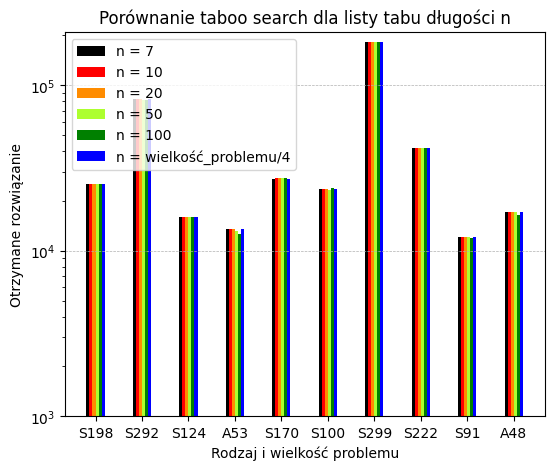
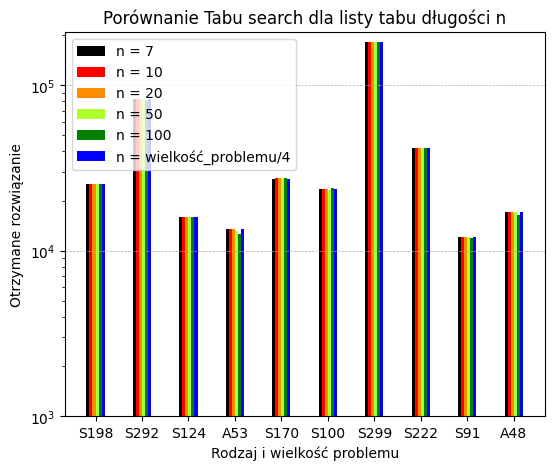
Plots

Changed region(s): [[0.1841, 0.0, 0.9206, 0.0596]]

diff --git a/src/main/java/org/example/Main.java b/src/main/java/org/example/Main.java
@@ -1,6 +1,10 @@
 package org.example;
 
+import org.example.algorithm.TwoOpt;
+import org.example.data.EucTspData;
+import org.example.data.Result;
 import org.example.data.TspData;
+import org.example.drawer.Drawer;
 import org.example.tabooSearchAnalyses.AlgorithmsComparisonTS;
 
 import java.io.File;
@@ -44,7 +48,7 @@ public class Main {
 //        System.out.println("At the beginning: " + startingRes.calcObjectiveFunction());
 //        System.out.println("At the end: " + endRes.calcObjectiveFunction());
 
-        FileLoader fileLoader = new FileLoader(files[0]);
+        FileLoader fileLoader = new FileLoader(files[2]);
         fileLoader.load();
         List<TspData> list = new ArrayList<>();
         for(int i = 0; i < files.length; i++) {
@@ -54,6 +58,13 @@ public class Main {
             data.setName(names[i]);
             list.add(data);
         }
+//        fileLoader.setFileName(files[8]);
+//        fileLoader.load();
+//        TspData d = fileLoader.getTspData();
+//        if(d instanceof EucTspData) {
+//            Result res = (new TwoOpt(d)).calculate();
+//            draw(res);
+//        }
 //        AlgorithmsComparisonTS.compareOperations("operations.csv", list);
 //        AlgorithmsComparisonTS.compareTabooListSize("tabooListSize.csv", list);
 //        AlgorithmsComparisonTS.compareAspiration("aspiration.csv", list);
@@ -62,6 +73,8 @@ public class Main {
 //        AlgorithmsComparisonTS.compareStart("start.csv", list);
 //        AlgorithmsComparisonTS.compareLongTermList("longTermList.csv", list, false);
 //        AlgorithmsComparisonTS.compareLongTermList("longTermListKick.csv", list, true);
+        System.out.println(list.size());
+        AlgorithmsComparisonTS.compareExploreFunctions("exploreFunctions.csv", list);
 //        AlgorithmsComparisonTS.compareTime("progress100.csv", list, 100);
 //        AlgorithmsComparisonTS.compareProgress("progress500.csv", list, 500);
 //        AlgorithmsComparisonTS.compareTime("progress1000.csv", list, 1000);
@@ -73,10 +86,10 @@ public class Main {
 //        fileLoader.load();
 //        data = fileLoader.getTspData();
 //        AlgorithmsComparisonTS.compareTabooListTime("tabooListTime91.csv", data);
-        fileLoader.setFileName(files[9]);
-        fileLoader.load();
-        TspData data = fileLoader.getTspData();
-        AlgorithmsComparisonTS.compareTabooListTime("tabooListTime48.csv", data);
+//        fileLoader.setFileName(files[9]);
+//        fileLoader.load();
+//        TspData data = fileLoader.getTspData();
+//        AlgorithmsComparisonTS.compareTabooListTime("tabooListTime48.csv", data);
 
 
 //        FileLoader fileLoader = new FileLoader("metro8.tsp");
@@ -88,6 +101,11 @@ public class Main {
 //        Drawer drawer = new Drawer(res.problem.getName());
 //        drawer.showResult(res);
 
+    }
+
+    private static void draw(Result res) {
+        Drawer drawer = new Drawer(res.problem.getName());
+        drawer.showResult(res);
     }
 
     public static void loaderTest(String filename){

diff --git a/wykresy2/tabooListTime/wykres.py b/wykresy2/tabooListTime/wykres.py
@@ -14,10 +14,10 @@ def draw():
         line = file.readline().split(';')
         for j in range(10):
             operations[i][j] = int(line[j+1])/1000000
-    plt.title('Czas Taboo Search dla roznych list tabu dla wielkosci problemu = 198')
+    plt.title('Czas tabu search dla różnych list tabu dla wielkości problemu = 198')
     x_axis = [r for r in range(100, 1100, 100)]
-    plt.plot(x_axis, operations[0], color='red', marker='.', label='Standardowa lista tabu (zlozonosc O(n))')
-    plt.plot(x_axis, operations[1], color='blue', marker='.', label='Ulepszona lista tabu (zlozonosc O(1))')
+    plt.plot(x_axis, operations[0], color='red', marker='.', label='Standardowa lista tabu (złożoność O(n))')
+    plt.plot(x_axis, operations[1], color='blue', marker='.', label='Ulepszona lista tabu (złożoność O(1))')
     plt.legend()
     plt.xticks(x_axis)
     plt.xlabel('Liczba iteracji algorytmu')
@@ -36,10 +36,10 @@ def draw():
         for j in range(10):
             operations[i][j] = int(line[j+1])/1000000
 
-    plt.title('Czas Taboo Search dla roznych list tabu dla wielkosci problemu = 91')
+    plt.title('Czas tabu search dla różnych list tabu dla wielkości problemu = 91')
     x_axis = [r for r in range(100, 1100, 100)]
-    plt.plot(x_axis, operations[0], color='red', marker='.', label='Standardowa lista tabu (zlozonosc O(n))')
-    plt.plot(x_axis, operations[1], color='blue', marker='.', label='Ulepszona lista tabu (zlozonosc O(1))')
+    plt.plot(x_axis, operations[0], color='red', marker='.', label='Standardowa lista tabu (złożoność O(n))')
+    plt.plot(x_axis, operations[1], color='blue', marker='.', label='Ulepszona lista tabu (złożoność O(1))')
     plt.legend()
     plt.xticks(x_axis)
     plt.xlabel('Liczba iteracji algorytmu')
@@ -58,10 +58,10 @@ def draw():
         for j in range(10):
             operations[i][j] = int(line[j+1])/1000000
 
-    plt.title('Czas Taboo Search dla roznych list tabu dla wielkosci problemu = 48')
+    plt.title('Czas tabu search dla różnych list tabu dla wielkości problemu = 48')
     x_axis = [r for r in range(100, 1100, 100)]
-    plt.plot(x_axis, operations[0], color='red', marker='.', label='Standardowa lista tabu (zlozonosc O(n))')
-    plt.plot(x_axis, operations[1], color='blue', marker='.', label='Ulepszona lista tabu (zlozonosc O(1))')
+    plt.plot(x_axis, operations[0], color='red', marker='.', label='Standardowa lista tabu (złożoność O(n))')
+    plt.plot(x_axis, operations[1], color='blue', marker='.', label='Ulepszona lista tabu (złożoność O(1))')
     plt.legend()
     plt.xticks(x_axis)
     plt.xlabel('Liczba iteracji algorytmu')

diff --git a/src/main/java/org/example/tabooSearchAnalyses/AlgorithmsComparisonTS.java b/src/main/java/org/example/tabooSearchAnalyses/AlgorithmsComparisonTS.java
@@ -4,6 +4,8 @@ import org.example.Main;
 import org.example.algorithm.KRandom;
 import org.example.algorithm.NearestNeighbour;
 import org.example.algorithm.TwoOpt;
+import org.example.algorithm.taboo.ExploreFunctions.ExploreFunction;
+import org.example.algorithm.taboo.ExploreFunctions.Kick;
 import org.example.algorithm.taboo.LongTermList;
 import org.example.algorithm.taboo.Neighbourhoods.CloseSwap;
 import org.example.algorithm.taboo.Neighbourhoods.Insert;
@@ -304,6 +306,53 @@ public class AlgorithmsComparisonTS {
 			TabooSearch2 taboo = new TabooSearch2(tspData, res, false,
 					new BasicTabooList(10), new Invert(),
 					new IterationsStop(2000), longTermList, null, 1);
+			ts[i][tests.length] = taboo.calculate().calcObjectiveFunction();
+			i++;
+		}
+		try {
+			File file = new File(fileName);
+			file.delete();
+			file.createNewFile();
+			FileWriter fileWriter = new FileWriter(file, true);
+			fileWriter.write("ProblemName;off;50;100;200;300;n/4\n");
+			for (int k = 0; k < n; k++) {
+				String str = Main.names[k];
+				for(int j = 0; j < tests.length+1; j++) {
+					str += ";" + ts[k][j];
+				}
+				str += "\n";
+				fileWriter.write(str);
+			}
+
+			fileWriter.close();
+
+		} catch (IOException e) {
+			e.printStackTrace();
+		}
+	}
+
+	// Porownanie listy dlugoterminowej
+	public static void compareExploreFunctions(String fileName, List<TspData> data) {
+		int n = data.size();
+		int tests[] = {0, 50, 100, 200, 300};
+		int ts[][] = new int[n][tests.length + 1];
+		int i = 0;
+		for (TspData tspData : data) {
+			Result res = new KRandom(tspData).calculate();
+			System.out.println(i + ": " + tspData.getSize());
+			for(int j = 0; j < tests.length; j++) {
+				ExploreFunction exploreFunction = new Kick(tests[j], 5);
+				if(tests[j] == 0) exploreFunction = null;
+				TabooSearch2 taboo = new TabooSearch2(tspData, res, false,
+						new BasicTabooList(10), new Invert(),
+						new IterationsStop(2000), null, exploreFunction, 1);
+				ts[i][j] = taboo.calculate().calcObjectiveFunction();
+			}
+			System.out.println(i + ": " + tspData.getSize());
+			ExploreFunction exploreFunction = new Kick(n/4, 5);
+			TabooSearch2 taboo = new TabooSearch2(tspData, res, false,
+					new BasicTabooList(10), new Invert(),
+					new IterationsStop(2000), null, exploreFunction, 1);
 			ts[i][tests.length] = taboo.calculate().calcObjectiveFunction();
 			i++;
 		}

diff --git a/wykresy2/exploreFunctions/wykres.py b/wykresy2/exploreFunctions/wykres.py
@@ -7,7 +7,7 @@ l = 0.13
 
 
 def draw():
-    file = open('tabooListSize.csv')
+    file = open('exploreFunctions.csv')
     file.readline()
     names = ['' for n in range(10)]
     longTermList = [[0 for n in range(10)] for j in range(8)]
@@ -18,13 +18,13 @@ def draw():
             longTermList[j][i] = int(line[j+1])
 
     r1 = np.arange(10)*2
-    plt.title('Porównanie Tabu search dla listy tabu długości n')
+    plt.title('Porównanie tabu search dla metody eksploracji co n kroków')
     color = ['black', 'red', 'darkorange', 'greenyellow', 'green', 'blue']
-    plt.bar(r1 - 1.5 * l, longTermList[0], color=color[0], width=l, label='n = 7')
-    plt.bar(r1 - 0.5 * l, longTermList[1], color=color[1], width=l, label='n = 10')
-    plt.bar(r1 + 0.5 * l, longTermList[2], color=color[2], width=l, label='n = 20')
-    plt.bar(r1 + 1.5 * l, longTermList[3], color=color[3], width=l, label='n = 50')
-    plt.bar(r1 + 2.5 * l, longTermList[4], color=color[4], width=l, label='n = 100')
+    plt.bar(r1 - 1.5 * l, longTermList[0], color=color[0], width=l, label='Bez metody eksploracji')
+    plt.bar(r1 - 0.5 * l, longTermList[1], color=color[1], width=l, label='n = 50')
+    plt.bar(r1 + 0.5 * l, longTermList[2], color=color[2], width=l, label='n = 100')
+    plt.bar(r1 + 1.5 * l, longTermList[3], color=color[3], width=l, label='n = 200')
+    plt.bar(r1 + 2.5 * l, longTermList[4], color=color[4], width=l, label='n = 300')
     plt.bar(r1 + 3.5 * l, longTermList[5], color=color[5], width=l, label='n = wielkość_problemu/4')
     plt.xticks([2*r + l for r in range(10)], names)
     plt.legend()
@@ -34,7 +34,7 @@ def draw():
     plt.grid(axis='y', linestyle='--', linewidth=0.5)
     plt.yscale('log')
     plt.yticks([1000, 10000, 100000])
-    plt.savefig('tabooListSize.png', bbox_inches='tight')
+    plt.savefig('exploreFunctions.png', bbox_inches='tight')
     plt.clf()
 
 

diff --git a/wykresy2/progress/wykres.py b/wykresy2/progress/wykres.py
@@ -17,7 +17,7 @@ def draw():
         for j in range(11):
             operations[i][j] = int(line[j+1])
 
-    plt.title('Proces zmiany wyniku w zalezności od czasu')
+    plt.title('Proces zmiany wyniku w zależności od czasu')
     color = ['black', 'dimgray', 'silver', 'red', 'darkorange', 'greenyellow', 'green', 'aqua', 'blue', 'blueviolet', 'hotpink']
     x_axis = [r for r in range(0, 110, 10)]
     for i in range(10):
@@ -42,7 +42,7 @@ def draw():
         for j in range(11):
             operations[i][j] = int(line[j+1])
 
-    plt.title('Proces zmiany wyniku w zalezności od czasu')
+    plt.title('Proces zmiany wyniku w zależności od czasu')
     color = ['black', 'dimgray', 'silver', 'red', 'darkorange', 'greenyellow', 'green', 'aqua', 'blue', 'blueviolet', 'hotpink']
     x_axis = [r for r in range(0, 110, 10)]
     for i in range(10):
@@ -67,7 +67,7 @@ def draw():
         for j in range(11):
             operations[i][j] = int(line[j+1])
 
-    plt.title('Proces zmiany wyniku w zalezności od czasu')
+    plt.title('Proces zmiany wyniku w zależności od czasu')
     color = ['black', 'dimgray', 'silver', 'red', 'darkorange', 'greenyellow', 'green', 'aqua', 'blue', 'blueviolet', 'hotpink']
     x_axis = [r for r in range(0, 110, 10)]
     for i in range(10):

diff --git a/wykresy2/longTermList/wykres.py b/wykresy2/longTermList/wykres.py
@@ -18,7 +18,7 @@ def draw():
             longTermList[j][i] = int(line[j+1])
 
     r1 = np.arange(10)*2
-    plt.title('Porównanie taboo search dla listy długoterminowej sprawdzającej co n kroków')
+    plt.title('Porównanie tabu search dla listy długoterminowej sprawdzającej co n kroków')
     color = ['black', 'red', 'darkorange', 'greenyellow', 'green', 'blue']
     plt.bar(r1 - 1.5 * l, longTermList[0], color=color[0], width=l, label='Bez listy długoterminowej')
     plt.bar(r1 - 0.5 * l, longTermList[1], color=color[1], width=l, label='n = 50')
@@ -49,7 +49,7 @@ def draw():
             longTermList[j][i] = int(line[j+1])
 
     r1 = np.arange(10)*2
-    plt.title('Porównanie taboo search dla listy długoterminowej wykonującej losowy Kick co n kroków')
+    plt.title('Porównanie tabu search dla listy długoterminowej wykonującej losowy Kick co n kroków')
     color = ['black', 'red', 'darkorange', 'greenyellow', 'green', 'blue']
     plt.bar(r1 - 1.5 * l, longTermList[0], color=color[0], width=l, label='Bez listy długoterminowej')
     plt.bar(r1 - 0.5 * l, longTermList[1], color=color[1], width=l, label='n = 50')

diff --git a/wykresy2/asynchronous/wykres.py b/wykresy2/asynchronous/wykres.py
@@ -18,7 +18,7 @@ def draw():
             asyn[j][i] = int(line[j+1])
 
     r1 = np.arange(10)*2
-    plt.title('Porównanie taboo search dla różnej liczby wątków')
+    plt.title('Porównanie tabu search dla różnej liczby wątków')
     color = ['black', 'red', 'darkorange', 'greenyellow', 'green', 'aqua', 'blue', 'magenta']
     plt.bar(r1 - 2.5 * l, asyn[0], color=color[0], width=l, label='1 wątek')
     for i in range(1, 5):
@@ -26,10 +26,10 @@ def draw():
     for i in range(5, 8):
         plt.bar(r1 + (-2.5 + i) * l, asyn[i], color=color[i], width=l, label=str(i+1) + ' wątków')
     plt.xticks([2*r + l for r in range(10)], names)
-    plt.legend()
+    plt.legend(loc='upper left')
     plt.xlabel('Rodzaj i wielkość problemu')
     plt.ylabel('Otrzymane rozwiązanie')
-    plt.subplots_adjust(left=0.15, bottom=0.1, right=0.9, top=0.9)
+    plt.subplots_adjust(left=0.15, bottom=0.1, right=0.85, top=0.9)
     plt.grid(axis='y', linestyle='--', linewidth=0.5)
     plt.yscale('log')
     plt.yticks([1000, 10000, 100000])

diff --git a/src/main/java/org/example/algorithm/taboo/ExploreFunctions/Kick.java b/src/main/java/org/example/algorithm/taboo/ExploreFunctions/Kick.java
@@ -30,7 +30,7 @@ public class Kick implements ExploreFunction {
 
     @Override
     public void explore(Result start) {
-        System.out.println("Kicking");
+//        System.out.println("Kicking");
         TspData tspData = start.problem;
         Random r = new Random();
         for (int j = 0; j<kick_changes; j++){
@@ -44,6 +44,7 @@ public class Kick implements ExploreFunction {
             start.way[ind_1] = start.way[ind_2];
             start.way[ind_2] = temp;
         }
+        start.calcObjectiveFunction();
         it_without_improvement = 0;
     }
 

diff --git a/wykresy2/start/wykres.py b/wykresy2/start/wykres.py
@@ -18,7 +18,7 @@ def draw():
             longTermList[j][i] = int(line[j+1])
 
     r1 = np.arange(10)
-    plt.title('Porównanie taboo search po wykonaniu innego algorytmu')
+    plt.title('Porównanie tabu search po wykonaniu innego algorytmu')
     color = ['blue', 'red', 'darkorange', 'green']
     plt.bar(r1 - 0.5 * l, longTermList[0], color=color[0], width=l, label='K-Random')
     plt.bar(r1 + 0.5 * l, longTermList[1], color=color[1], width=l, label='Nearest Neighbour')

diff --git a/wykresy2/aspiration/wykres.py b/wykresy2/aspiration/wykres.py
@@ -19,7 +19,7 @@ def draw():
         aspTrue[i] = int(line[2])
 
     r1 = np.arange(10)
-    plt.title('Porównanie taboo search dla kryterium aspiracji')
+    plt.title('Porównanie tabu search dla kryterium aspiracji')
     plt.bar(r1 + 0.5 * l, aspFalse, color='red', width=l, label='Nie używając kryterium aspiracji')
     plt.bar(r1 + 1.5 * l, aspTrue, color='darkorange', width=l, label='Używając kryterium aspiracji')
     plt.xticks([r + l for r in range(10)], names)

diff --git a/wykresy2/operations/wykres.py b/wykresy2/operations/wykres.py
@@ -18,7 +18,7 @@ def draw():
             operations[j][i] = int(line[j+1])
 
     r1 = np.arange(10)*2
-    plt.title('Porównanie taboo search dla liczby iteracji n')
+    plt.title('Porównanie tabu search dla liczby iteracji n')
     color = ['black', 'red', 'darkorange', 'greenyellow', 'green', 'blue']
     plt.bar(r1 - 1.5 * l, operations[0], color=color[0], width=l, label='n = 50')
     plt.bar(r1 - 0.5 * l, operations[1], color=color[1], width=l, label='n = 100')

diff --git a/wykresy2/neighbourhood/wykres.py b/wykresy2/neighbourhood/wykres.py
@@ -18,7 +18,7 @@ def draw():
             longTermList[j][i] = int(line[j+1])
 
     r1 = np.arange(10)
-    plt.title('Porównanie taboo search dla roznych otoczen')
+    plt.title('Porównanie tabu search dla różnych otoczeń')
     color = ['blue', 'red', 'darkorange', 'green']
     plt.bar(r1 - 0.5 * l, longTermList[0], color=color[0], width=l, label='Invert')
     plt.bar(r1 + 0.5 * l, longTermList[1], color=color[1], width=l, label='Insert')
